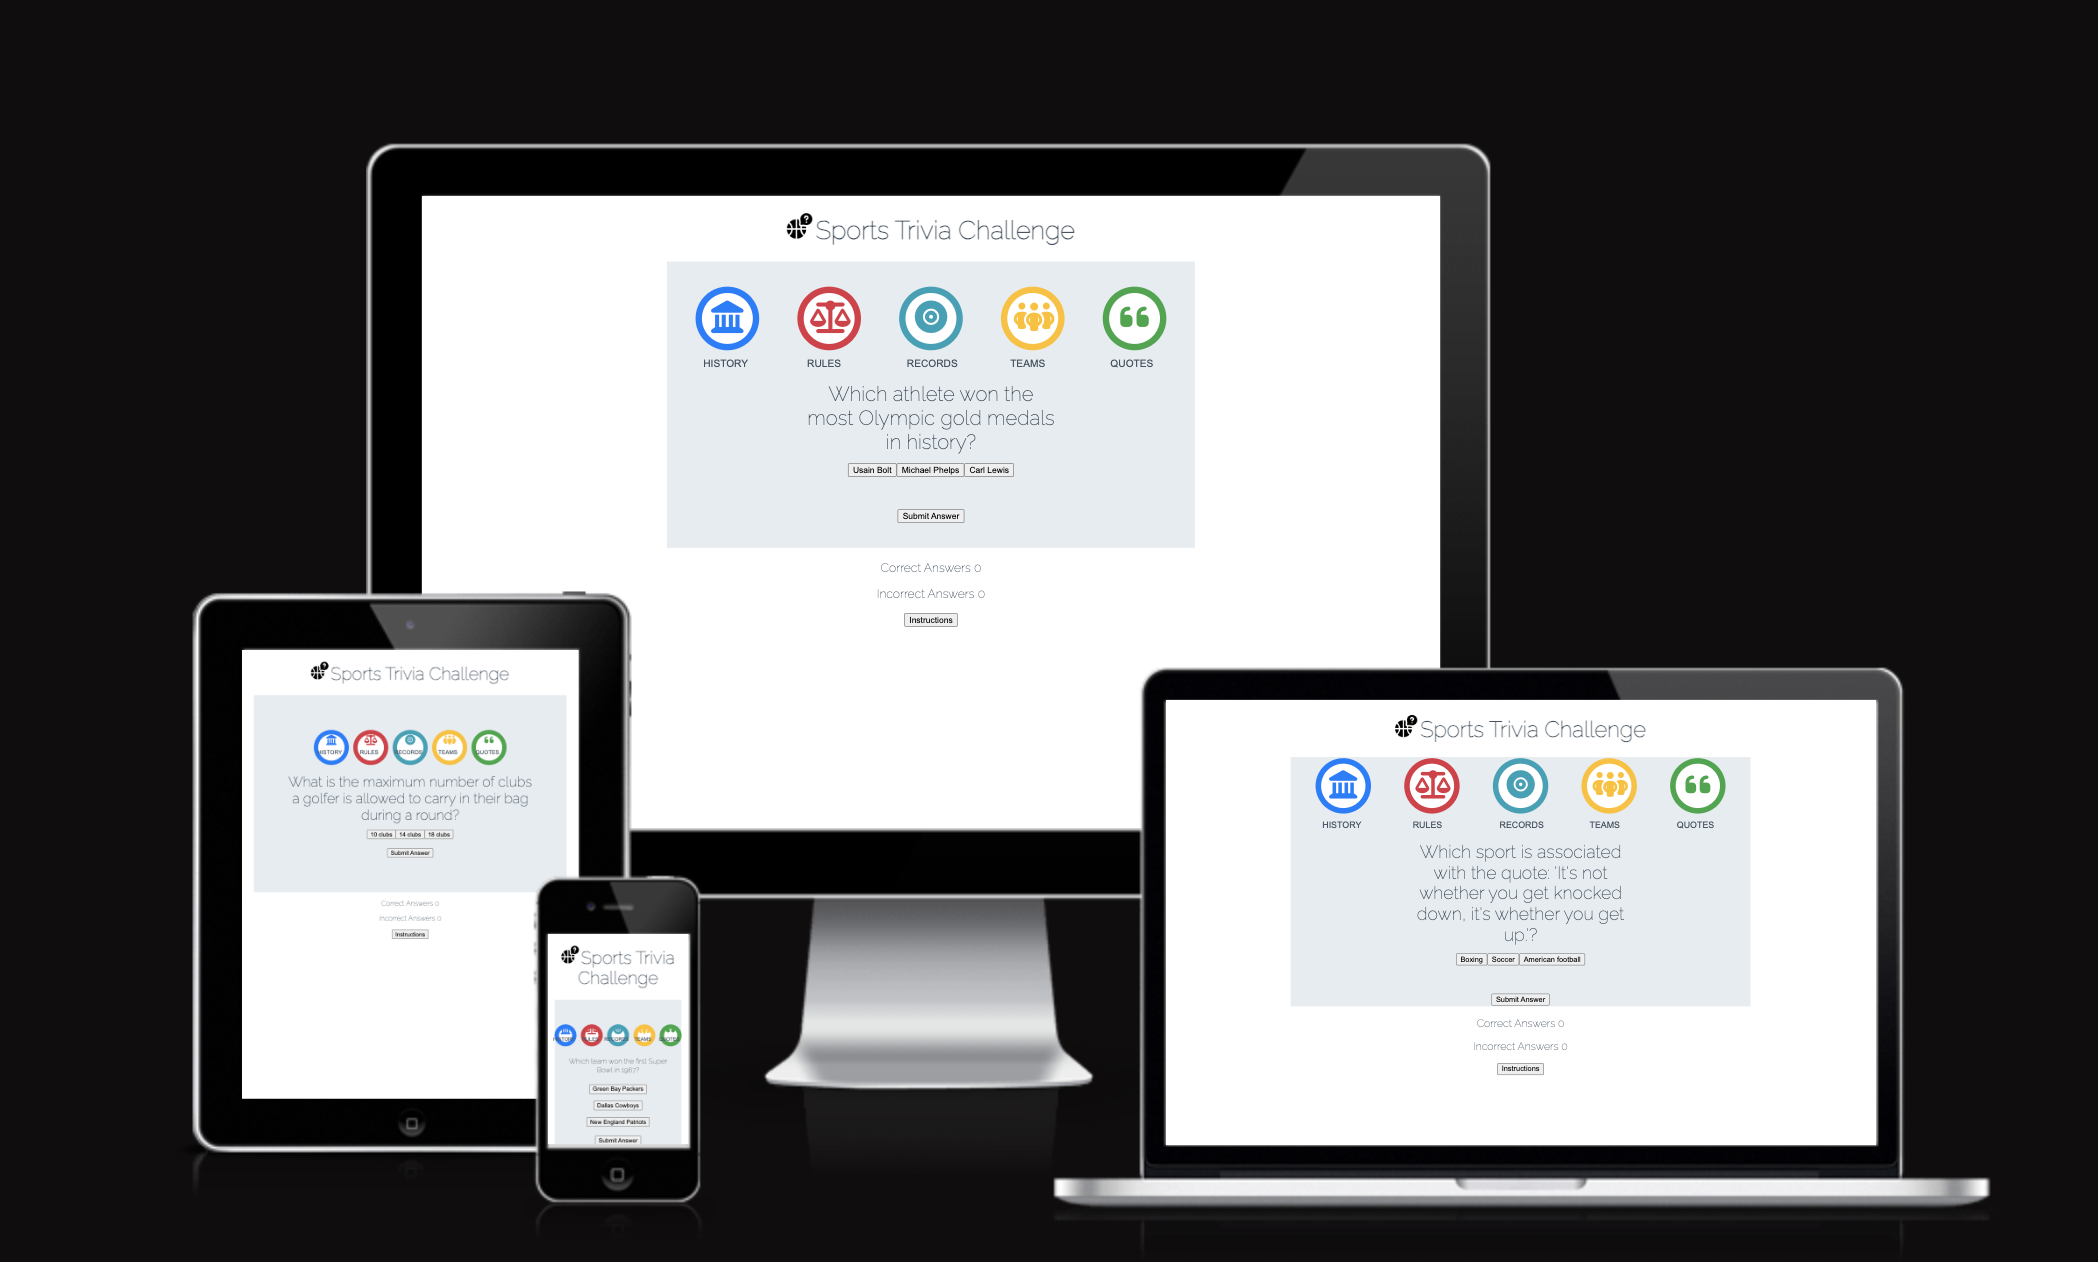
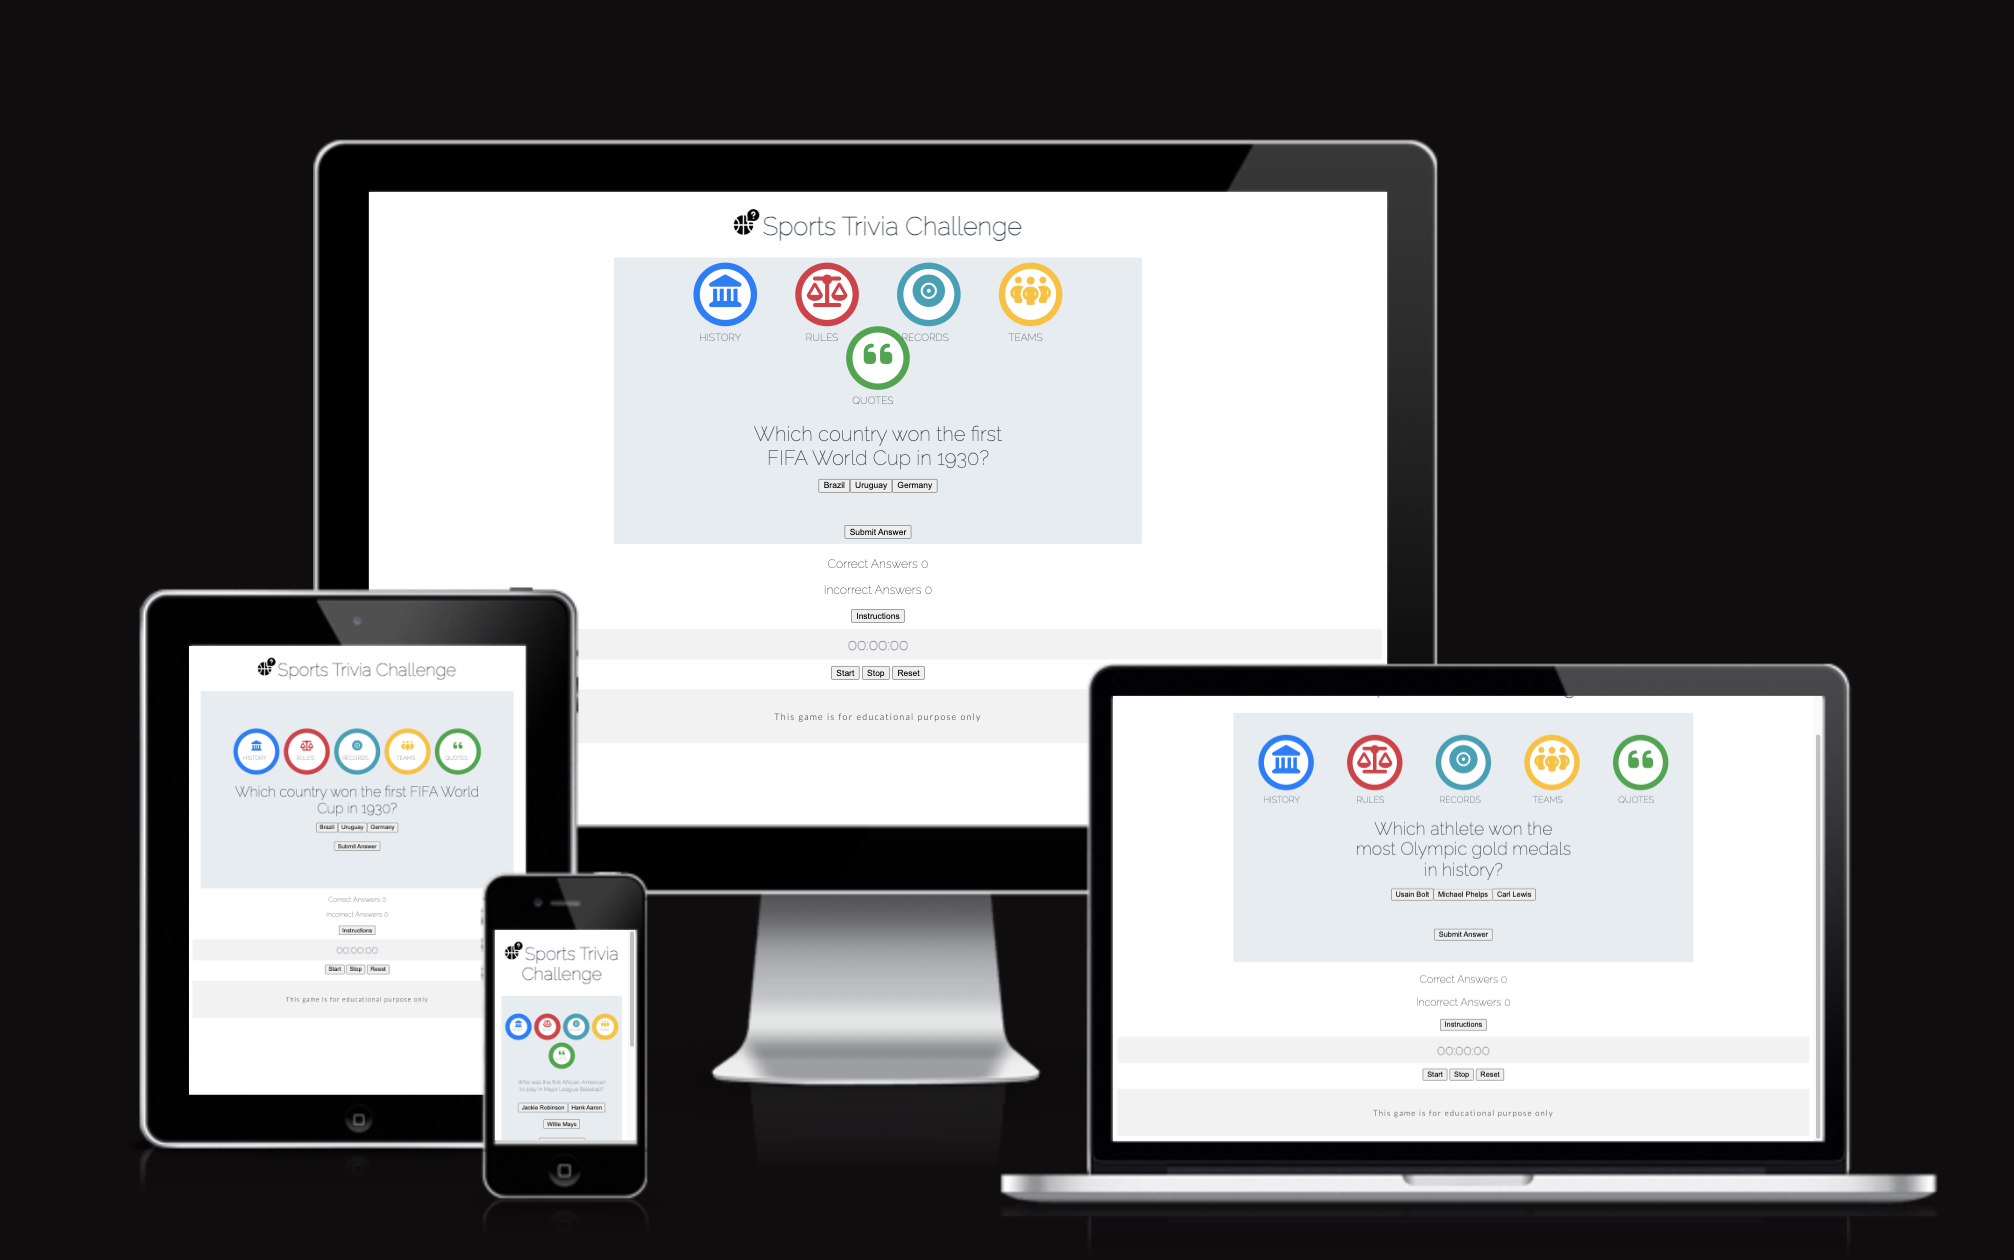
Add to README I am responsive and wave report snapshots

Changed region(s): [[0.0616, 0.0929, 0.9851, 0.9595], [0.431, 0.5262, 0.4618, 0.5571]]

diff --git a/assets/css/style.css b/assets/css/style.css
@@ -216,7 +216,7 @@ footer {
 
     /* Adjust game type icons and labels */
     .btn--big {
-        width: 80px;
+        width: 85px;
         height: 90px;
         font-size: 1.8rem;
         margin: 0 15px;

diff --git a/README.md b/README.md
@@ -1,29 +1,31 @@
 # Sports Trivia Challenge README
 
 ## Contents
-- [Contents](#contents)
-- [Introduction](#introduction)
-- [Purpose](#purpose)
-- [Design](#design)
+- [Sports Trivia Challenge README](#sports-trivia-challenge-readme)
+  - [Contents](#contents)
+  - [Introduction](#introduction)
+  - [Purpose](#purpose)
+  - [Design](#design)
     - [Wireframe](#wireframe)
     - [Sketches Of The Sports Trivia Challenge](#sketches-of-the-sports-trivia-challenge)
     - [Color Scheme](#color-scheme)
     - [Typography](#typography)
     - [Imagery](#imagery)
     - [Features](#features)
+    - [Existing Features](#existing-features)
     - [Accessibility](#accessibility)
-- [Technologies Employed](#technologies-employed)
+  - [Technologies Employed](#technologies-employed)
     - [Languagues Employed](#languagues-employed)
     - [Frameworks, Libraries \& Programs Employed](#frameworks-libraries--programs-employed)
-- [Deployment](#deployment)
-- [User Stories](#user-stories)
-- [Testing and Solved](#testing-and-solved)
-- [Validator and Testing](#validator-and-testing)
-- [Credits](#credits)
+  - [Deployment](#deployment)
+  - [User Stories](#user-stories)
+  - [Testing and Solved](#testing-and-solved)
+  - [Validator and Testing](#validator-and-testing)
+  - [Credits](#credits)
     - [Code Used](#code-used)
     - [Content](#content)
     - [Media](#media)
-    - [Acknowledgement](acknowledgement)
+    - [Acknowledgement](#acknowledgement)
 
 
 ## Introduction
@@ -87,6 +89,9 @@ Logo and header, Game area with 5 game types represented by icons and name of th
 - The Instruction button
   The instruction area gives users information on how to play the game when clikced.
   ![The Game Instructions](./documents/sports-trivia-instruction-button.png)
+- The game timer area
+  This provides start, stop and reset time area for users
+  ![The Game timer]
 
 ### Accessibility
 The website is made accessible-friendly as possible through the following measures:
@@ -111,6 +116,10 @@ This project was created using only HTML, CSS and JavaScript.
 - FontAwesome for logo and game type icons
 - <https://ui.dev/amiresponsive> - to check site responsiveness
 - <https://chrome.google.com/webstore/detail/unicorn-revealer/lmlkphhdlngaicolpmaakfmhplagoaln> - to check the flow of the header, logo and icons at different screen sizes and making sure there are no overflows and distortions.
+- Am I Responsive was used to check the various device breakpoints for responsive design, a snap short of the webpage at media screen sizes for responsive development.
+  ![I am responsive screenshot](./documents/sports-trivia-iamresponsive.png)
+- WAVE Evaluation tool was used to evaluate web accessibility within the browser.
+  ![Wave Evluation screenshot](./documents/sports-trivia-wave-report.png)
 
 ## Deployment
 
